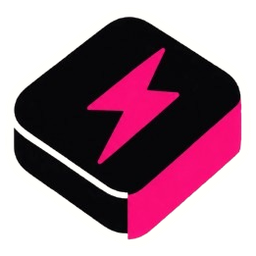
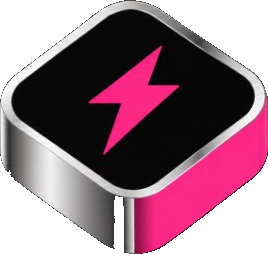
Polish landing hero copy, branding, and chrome.
Update the hero tagline and layout, adopt transparent logo and favicon assets, tighten header mark sizing, and set the browser title to Zap Payments.

diff --git a/packages/landing/src/hero.tsx b/packages/landing/src/hero.tsx
@@ -1,11 +1,10 @@
 "use client";
 
 import { useCallback, useEffect, useLayoutEffect, useRef, useState, type RefObject } from "react";
-import { useApp, v } from "./context";
+import { v } from "./context";
 import { DEMO } from "./demo";
 import { advance, COIN_KEYS, COINS, dwell, flowView, INITIAL_FLOW, PLACES, sceneWaypoint, USDC_COLOR, type Actor, type CoinKey, type FlowState, type Pt } from "./flow";
-import { Arrow, Bolt, Check, Mark } from "./icons";
-import { LandingModeKicker } from "./landing-mode-kicker";
+import { Bolt, Check, Mark } from "./icons";
 import { SiteHeader } from "./site-header";
 
 const ACCENT = "#FF2D87";
@@ -15,7 +14,7 @@ const W = 1360;
 const H = 700;
 const SX = 840; // scene origin
 const SY = 480;
-const PHONE = { left: 70, top: 168, scale: 0.8 };
+const PHONE = { left: 68, top: 162, scale: 0.86 };
 /** Unscaled phone shell + shadow stack in the poster (see `.z-ph` / `.z-ph-shadow`). */
 const PHONE_STACK_H = 612 + (-18 + 46);
 /* Stacked layout (narrow screens): crop of the same stage around the scene. */
@@ -124,7 +123,6 @@ function FlowCaption({ f, go, reduced }: { f: View; go: Go; reduced: boolean }) 
 }
 
 export function HeroFlow() {
-  const { href } = useApp();
   const { s, setS, go, reduced, still } = useFlow();
   // The "try it" hint: shown until the visitor first touches the phone, never in stills.
   const [touched, setTouched] = useState(false);
@@ -142,7 +140,7 @@ export function HeroFlow() {
   const captionTop = posterScale > 0 ? Math.round(phoneBottomY * posterScale - captionBarH / 2) : 0;
 
   return (
-    <section id="top" className="z-hero" aria-label="Zap: any coin in, USDC out">
+    <section id="top" className="z-hero" aria-label="Zap: accept payments across 35+ chains, NFT receipts, refunds with ease">
       <div ref={boxRef} className="z-posterbox">
         {width === 0 ? (
           <div style={{ height: 600 }} />
@@ -158,38 +156,16 @@ export function HeroFlow() {
         ) : null}
       </div>
 
-      <div
-        className="z-wrap"
-        style={{
-          display: "flex",
-          flexWrap: "wrap",
-          alignItems: "flex-end",
-          justifyContent: "space-between",
-          gap: 22,
-          marginTop: poster ? 20 : 16,
-        }}
-      >
-        <div className="z-col" style={{ flex: "1 1 280px", maxWidth: 460, gap: 20 }}>
-          <p style={{ fontSize: 18, lineHeight: 1.6, color: "var(--z-body)", margin: 0 }}>
-            Checkout for SaaS and online businesses. Customers pay in the assets they already hold; you receive USDC in escrow until the refund window closes.{" "}
-            <a href="#refunds" style={{ color: "var(--z-fg)", fontWeight: 600, textDecoration: "underline", textUnderlineOffset: 3 }}>
-              How refunds work
-            </a>
-          </p>
-          <div className="z-col" style={{ gap: 12, alignItems: "flex-start" }}>
-            <a href={href("/dashboard")} className="z-btn ink">
-              Get started <Arrow />
-            </a>
-            <LandingModeKicker />
-          </div>
+      {!poster && width > 0 ? (
+        <div className="z-wrap" style={{ marginTop: 16 }}>
+          <FlowCaption f={f} go={go} reduced={reduced} />
           {reduced ? (
-            <p className="z-muted" style={{ fontSize: 13, margin: 0 }}>
+            <p className="z-muted" style={{ fontSize: 13, margin: "12px 0 0" }}>
               Walkthrough paused — your system prefers reduced motion.
             </p>
           ) : null}
         </div>
-        {!poster && width > 0 ? <FlowCaption f={f} go={go} reduced={reduced} /> : null}
-      </div>
+      ) : null}
     </section>
   );
 }
@@ -197,9 +173,10 @@ export function HeroFlow() {
 function Headline({ style }: { style?: React.CSSProperties }) {
   return (
     <h1 className="z-h1" style={style}>
-      Any coin in.
-      <br />
-      <span className="z-acc">USDC</span> out.
+      <span className="z-h1-line">Accept payments across 35+ chains.</span>
+      <span className="z-h1-line">
+        Issue <span className="z-acc">NFT receipts.</span> Refund with ease.
+      </span>
     </h1>
   );
 }
@@ -266,7 +243,7 @@ function Poster({ s, f, go, width, fitHeight, hint }: { s: FlowState; f: View; g
     <div style={{ height: H * scale, position: "relative", overflow: "hidden" }}>
       <div ref={stageRef} className="z-poster" style={{ width: W, height: H, transform: `translate(${offsetX}px,0) scale(${scale})` }}>
         <Floor x={0} y={160} w={W} h={H - 160} />
-        <Headline style={{ left: 40, top: 6, maxWidth: 720 }} />
+        <Headline style={{ left: 40, top: 52, maxWidth: 720 }} />
         {/* scale and perspective live on separate elements: combined, Chromium mis-hit-tests the tilted screen */}
         <div
           style={{ position: "absolute", left: PHONE.left, top: PHONE.top, zIndex: 2, transform: `scale(${PHONE.scale})`, transformOrigin: "0 0" }}
@@ -294,7 +271,7 @@ function Stacked({ s, f, go, width, hint }: { s: FlowState; f: View; go: Go; wid
   const anchorRef = useRef<HTMLSpanElement>(null);
   return (
     <div className="z-wrap z-col" style={{ gap: 28, paddingTop: 12 }}>
-      <Headline style={{ fontSize: "clamp(44px, 13vw, 80px)" }} />
+      <Headline style={{ fontSize: "clamp(36px, 10vw, 56px)" }} />
       <TryHint hint={hint} compact />
       <div className="z-phw" style={{ alignSelf: "center", maxWidth: "100%" }} onPointerDown={hint.touch}>
         <Phone s={s} f={f} go={go} anchorRef={anchorRef} flat={width < 420} />

diff --git a/packages/landing/src/brand.tsx b/packages/landing/src/brand.tsx
@@ -1,12 +1,14 @@
-/** Brand lockup — served from `/brand/logo.jpg` on each app host. */
+/** Brand assets — transparent PNGs under `/brand/` on each app host. */
 
-export const BRAND_LOGO = "/brand/logo.jpg";
+export const BRAND_LOGO = "/brand/logo-lockup.png";
+export const BRAND_MARK = "/brand/mark.png";
 
 export function LogoWordmark({ height = 56, className = "" }: { height?: number; className?: string }) {
   return (
     <img
       src={BRAND_LOGO}
       alt="Zap Payments"
+      draggable={false}
       className={`z-logo-wordmark ${className}`.trim()}
       height={height}
       style={{ height, width: "auto", maxWidth: "min(500px, 94vw)", display: "block" }}
@@ -14,17 +16,18 @@ export function LogoWordmark({ height = 56, className = "" }: { height?: number;
   );
 }
 
-/** Square crop of the bolt tile for compact UI (checkout sheet, etc.). */
+/** Pink lightning isometric tile. */
 export function LogoMark({ size = 34, className = "" }: { size?: number; className?: string }) {
   return (
     <img
-      src={BRAND_LOGO}
+      src={BRAND_MARK}
       alt=""
       aria-hidden
+      draggable={false}
       className={`z-logo-mark ${className}`.trim()}
       width={size}
       height={size}
-      style={{ width: size, height: size }}
+      style={{ width: size, height: size, objectFit: "contain", display: "block" }}
     />
   );
 }

diff --git a/apps/web/app/page.tsx b/apps/web/app/page.tsx
@@ -12,13 +12,13 @@ async function origin(): Promise<string> {
 
 export async function generateMetadata(): Promise<Metadata> {
   const base = await origin();
-  const title = "Zap";
+  const title = "Zap Payments";
   const description = "Crypto checkout for SaaS and online businesses. Customers pay in any coin on any chain through NEAR Intents; you get USDC; every payment is a receipt NFT that holds the money in escrow until the refund window closes.";
   return {
     title,
     description,
     metadataBase: new URL(base),
-    openGraph: { title, description, url: base, siteName: "Zap", type: "website", images: [{ url: "/og.png", width: 1200, height: 630, alt: "Any coin in. USDC out. A phone pays into a safe that holds a receipt NFT." }] },
+    openGraph: { title, description, url: base, siteName: "Zap Payments", type: "website", images: [{ url: "/og.png", width: 1200, height: 630, alt: "Any coin in. USDC out. A phone pays into a safe that holds a receipt NFT." }] },
     twitter: { card: "summary_large_image", title, description, images: ["/og.png"] },
   };
 }

diff --git a/packages/landing/src/landing.css b/packages/landing/src/landing.css
@@ -428,15 +428,13 @@
   object-fit: contain;
 }
 .z-logo-mark {
-  object-fit: cover;
-  object-position: left center;
-  border-radius: 8px;
+  object-fit: contain;
   flex: none;
 }
 .z-logo-wordmark-header {
-  height: 58px !important;
+  height: 32px !important;
   width: auto !important;
-  max-width: min(340px, 58vw) !important;
+  max-width: min(200px, 48vw) !important;
 }
 .z-mark {
   width: 34px;
@@ -511,8 +509,8 @@
     display: none;
   }
   .z-logo-wordmark-header {
-    height: 46px !important;
-    max-width: 240px !important;
+    height: 28px !important;
+    max-width: min(168px, 44vw) !important;
   }
 }
 .z-sim {
@@ -591,10 +589,16 @@
   top: 0;
   transform-origin: 0 0;
 }
+.z-h1 .z-h1-line {
+  display: block;
+}
+.z-poster .z-h1 .z-h1-line {
+  white-space: nowrap;
+}
 .z-poster .z-h1 {
   position: absolute;
   z-index: 3;
-  font-size: 100px;
+  font-size: 68px;
   /* legible where the words sit over the phone */
   paint-order: stroke fill;
   -webkit-text-stroke: 6px var(--z-bg);

diff --git a/packages/landing/src/site-header.tsx b/packages/landing/src/site-header.tsx
@@ -15,7 +15,7 @@ export function SiteHeader({ section = "home" }: { section?: SiteSection }) {
   return (
     <header className="z-header">
       <a href={section === "home" ? "#top" : home} className="z-brand">
-        <LogoWordmark height={58} className="z-logo-wordmark-header" />
+        <LogoWordmark height={32} className="z-logo-wordmark-header" />
       </a>
       <nav aria-label="Primary" className="z-nav">
         <a className={`z-navlink${section === "docs" ? " on" : ""}`} href={href("/docs")} aria-current={section === "docs" ? "page" : undefined}>

diff --git a/apps/web/app/layout.tsx b/apps/web/app/layout.tsx
@@ -6,7 +6,8 @@ import "@fontsource-variable/jetbrains-mono";
 import "./globals.css";
 
 export const metadata: Metadata = {
-  title: { default: "Zap", template: "%s · Zap" },
+  title: { default: "Zap Payments", template: "%s · Zap Payments" },
+  applicationName: "Zap Payments",
   description: "Any coin in, USDC out. Embed one pay button; every payment is a receipt NFT that holds the money until the refund window ends.",
 };
 
